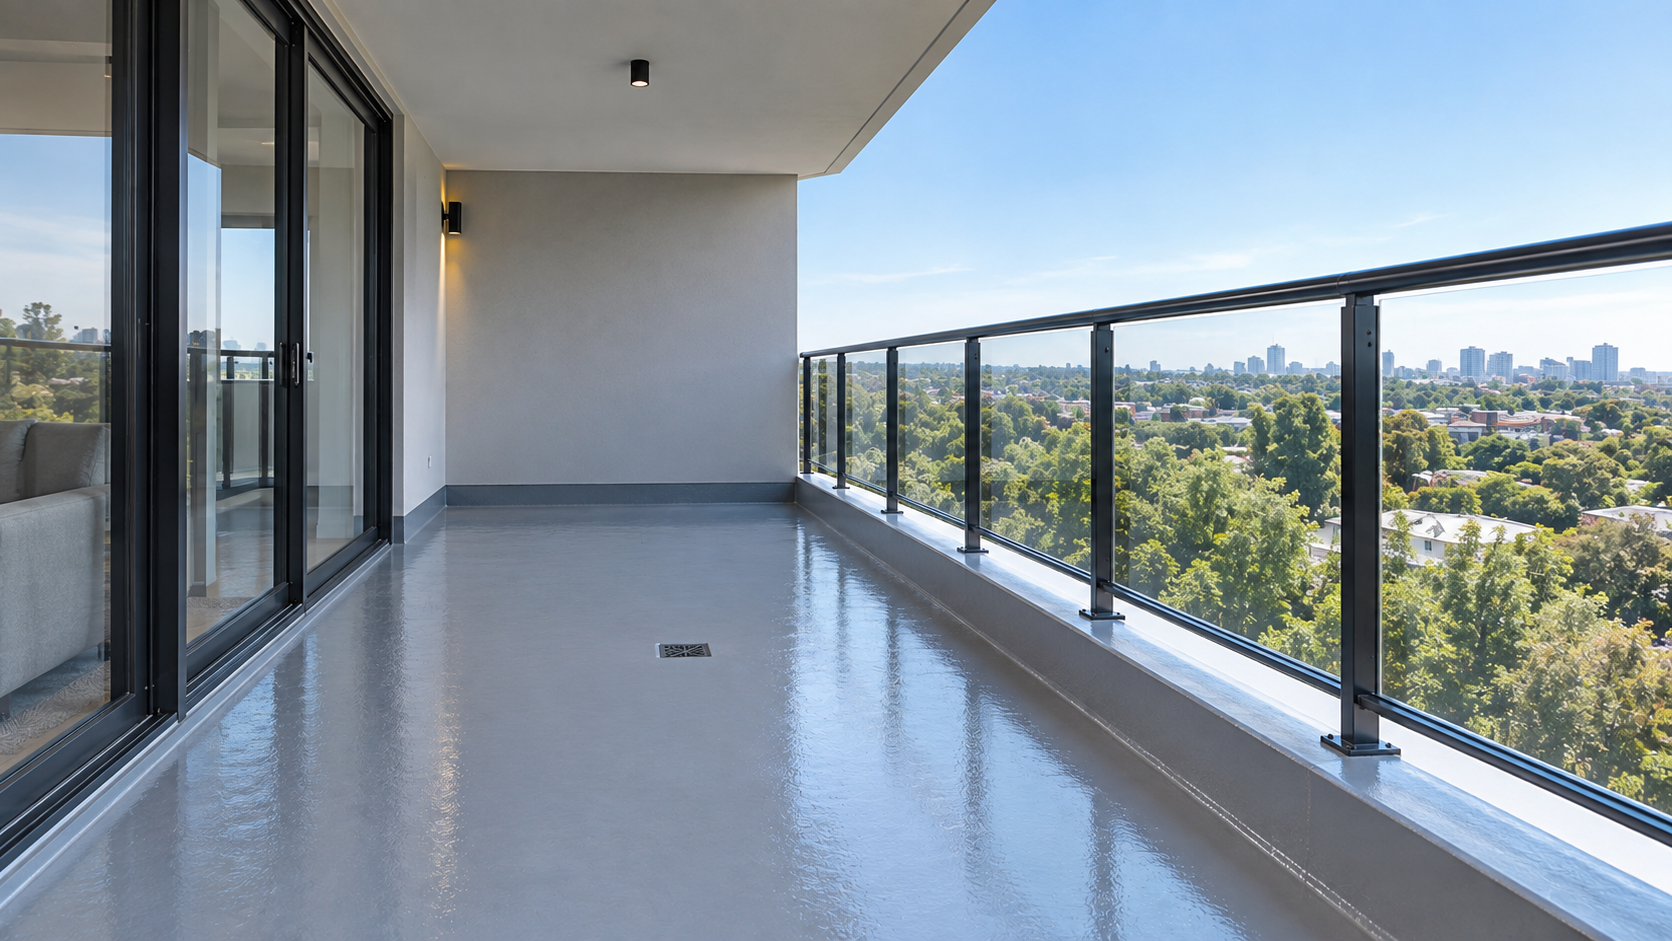
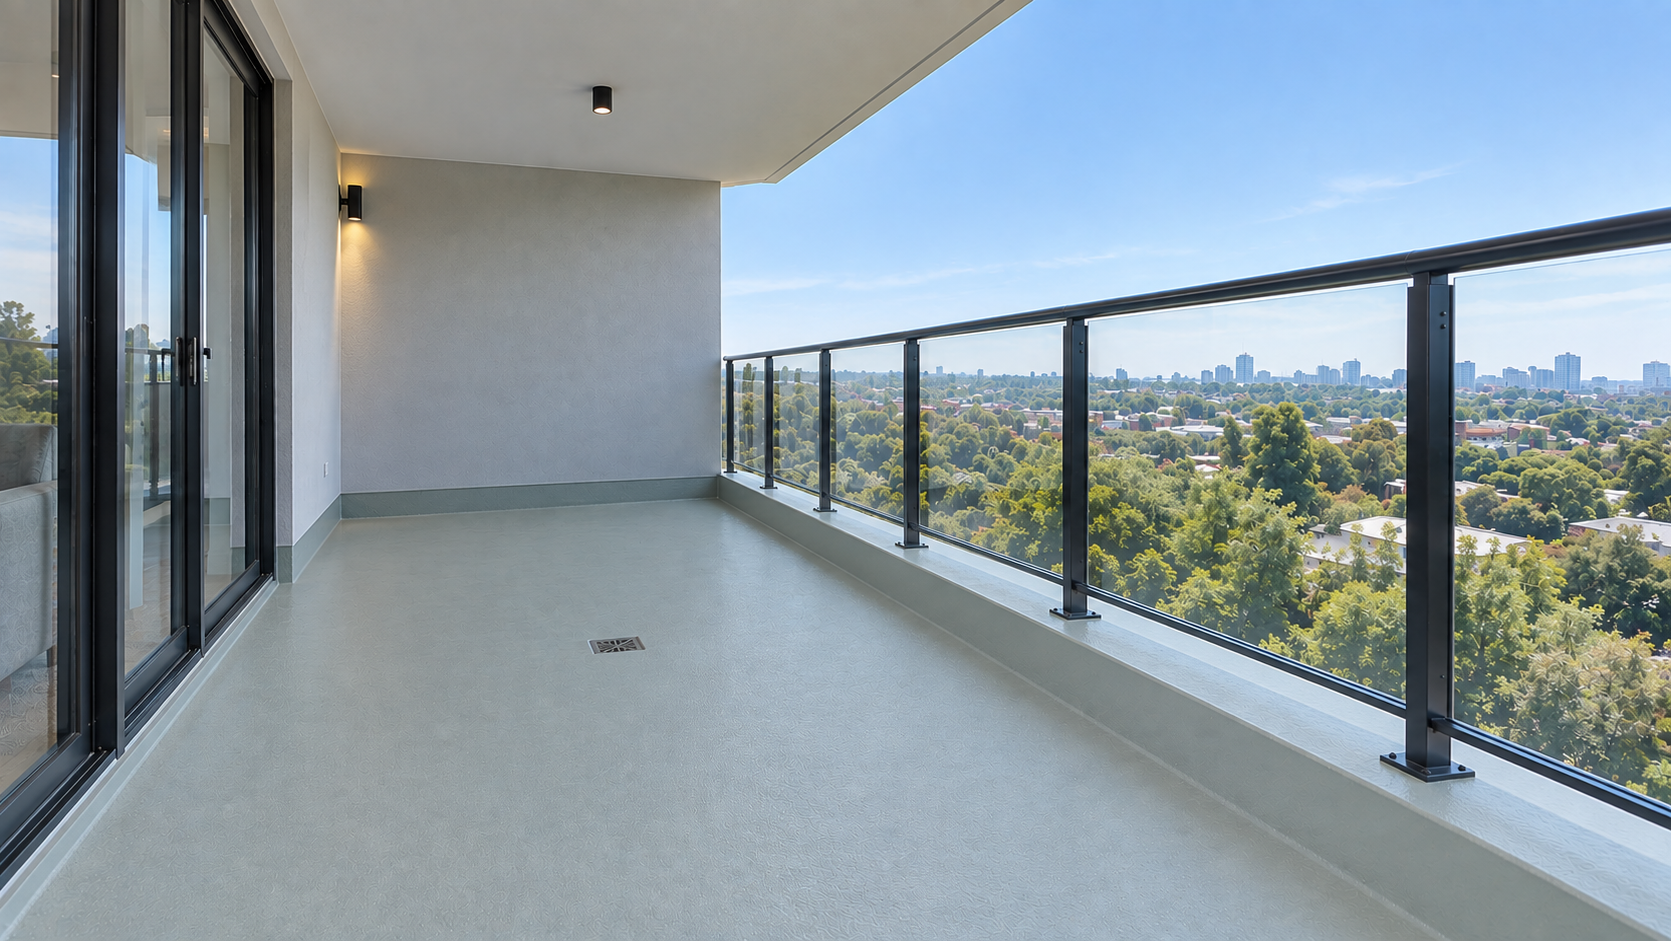
feat: interactive Leaflet service-area map on /area (#9)
* feat: interactive Leaflet service-area map on /area

Replace the static map placeholder with an interactive Leaflet +
OpenStreetMap island that shades the Greater Melbourne service area.

- ServiceAreaMap.astro: self-hosted Leaflet (bundled via Vite, no CDN),
  OSM tiles with attribution, accent-coloured polygon, fitBounds,
  scrollWheelZoom off, invalidateSize on load/resize.
- service-area.ts: 24-point metro outline that hugs the Port Phillip Bay
  coastline (bay water excluded, bayside suburbs included).
- isolate on the map container so Leaflet's high pane/control z-index
  can't paint over the sticky header.
- Trim cities list to metro-only (drop Geelong/Ballarat/Bendigo) to match
  the highlighted region.

* update doc

* fix text

* update image + add crew image

---------

diff --git a/src/data/service-area.ts b/src/data/service-area.ts
@@ -1,0 +1,34 @@
+// Approximate service-area outline for Greater Melbourne — not an official boundary.
+// [lat, lng] order (Leaflet convention, not GeoJSON [lng, lat]).
+
+export const serviceAreaCenter: [number, number] = [-37.85, 145.0];
+export const serviceAreaZoom: number = 9;
+
+export const serviceAreaPolygon: [number, number][] = [
+  [-37.58, 144.73], // Sunbury (NW)
+  [-37.6, 144.94], // Craigieburn (N)
+  [-37.6, 145.1], // Mernda / Doreen
+  [-37.66, 145.25], // Yarra Glen (NE)
+  [-37.76, 145.35], // Lilydale
+  [-37.91, 145.36], // Belgrave / the Dandenongs (E)
+  [-37.94, 145.42], // Emerald / Cockatoo
+  [-38.08, 145.48], // Pakenham (SE)
+  [-38.05, 145.35], // Berwick
+  [-38.1, 145.28], // Cranbourne
+  [-38.145, 145.13], // Frankston (S) — southern extent, on the bay's east shore
+  // Hug the bayside coast north — tight to the shore so coastal suburbs stay inside
+  [-38.07, 145.125], // Carrum / Seaford
+  [-38.0, 145.09], // Mordialloc
+  [-37.975, 145.03], // Beaumaris / Black Rock
+  [-37.95, 145.0], // Sandringham
+  [-37.91, 144.99], // Brighton
+  [-37.868, 144.975], // St Kilda
+  [-37.84, 144.94], // Port Melbourne
+  // Cross the narrow river mouth to the bay's west shore
+  [-37.86, 144.89], // Williamstown
+  [-37.87, 144.83], // Altona
+  [-37.92, 144.79], // Point Cook
+  [-38.0, 144.72], // Werribee South (coast)
+  [-37.93, 144.66], // Werribee (SW)
+  [-37.68, 144.58], // Melton (W)
+];

diff --git a/src/data/site.ts b/src/data/site.ts
@@ -39,8 +39,7 @@ export const cities = [
   'Melbourne CBD', 'Richmond', 'South Yarra', 'St Kilda', 'Brighton',
   'Glen Waverley', 'Box Hill', 'Doncaster', 'Preston', 'Brunswick',
   'Essendon', 'Footscray', 'Werribee', 'Frankston', 'Dandenong',
-  'Ringwood', 'Croydon', 'Berwick', 'Pakenham', 'Geelong',
-  'Ballarat', 'Bendigo',
+  'Ringwood', 'Croydon', 'Berwick', 'Pakenham',
 ];
 
 export const faqItems = [

diff --git a/docs/ASTRO-TAILWIND-REFACTOR.md b/docs/ASTRO-TAILWIND-REFACTOR.md
@@ -175,7 +175,7 @@ src/
 **Complexity:** Small
 **Dependencies:** 1.1
 
-Move `uploads/` → `public/uploads/`. Astro serves `public/` as-is at the root, so image paths remain `/uploads/logo-transparent.png` etc.
+Move `uploads/` → `public/uploads/`. Astro serves `public/` as-is at the root, so image paths remain `/uploads/valmark-logo.png` etc.
 
 ```bash
 mkdir -p public
@@ -186,7 +186,7 @@ mv uploads public/uploads
 
 | File | Used by |
 |------|---------|
-| `logo-transparent.png` | Header, footer |
+| `valmark-logo.png` | Header, footer |
 | `mark-raic.png` | Team card (Mark Raic) |
 | `laundry-before.jpeg` | Bathrooms before/after, gallery |
 | `laundry-after.jpeg` | Gallery |
@@ -525,7 +525,7 @@ const { title = 'Valmark Waterproofing — Melbourne', activePage = '' } = Astro
 Key details:
 - Sticky header: `position: sticky; top: 0; z-index: 50`
 - Desktop-only top info bar (email + phone) on `bg-primary`
-- Logo: `uploads/logo-transparent.png`, 168×112px
+- Logo: `uploads/valmark-logo.png`, 168×112px
 - Desktop nav: 6 links with active state (accent border-bottom when `activePage` matches)
 - "Enquiry Now" CTA button: `bg-accent text-white uppercase tracking-wider font-bold px-8 py-5`
 - Mobile: hamburger "Menu" button at `lg:hidden`, toggles a dropdown overlay
